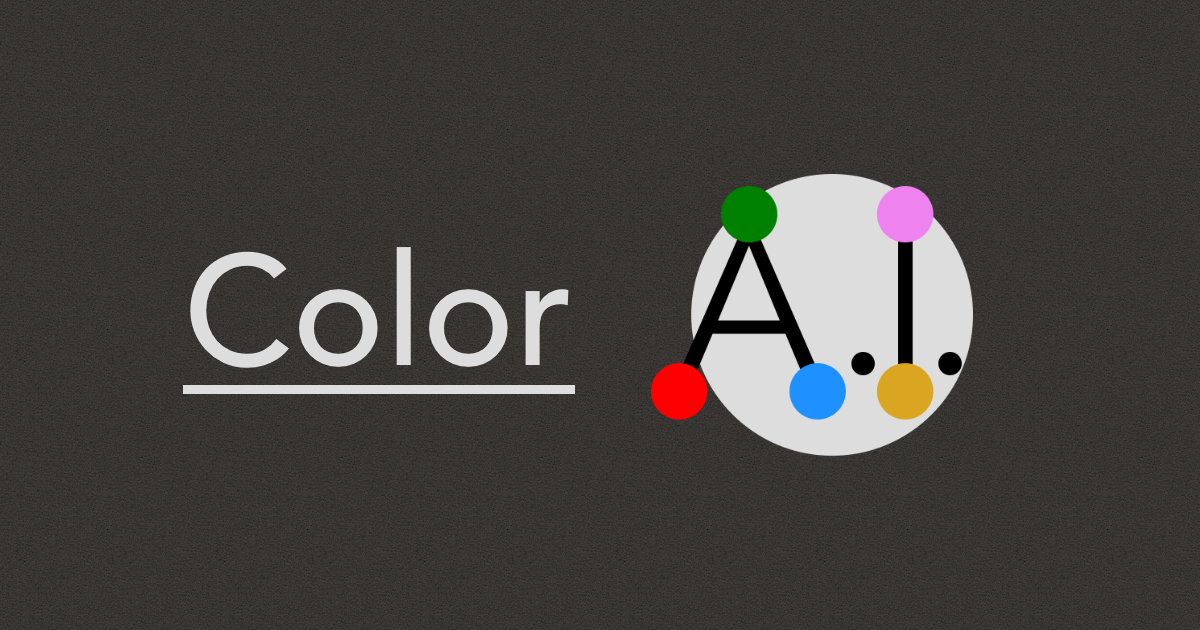
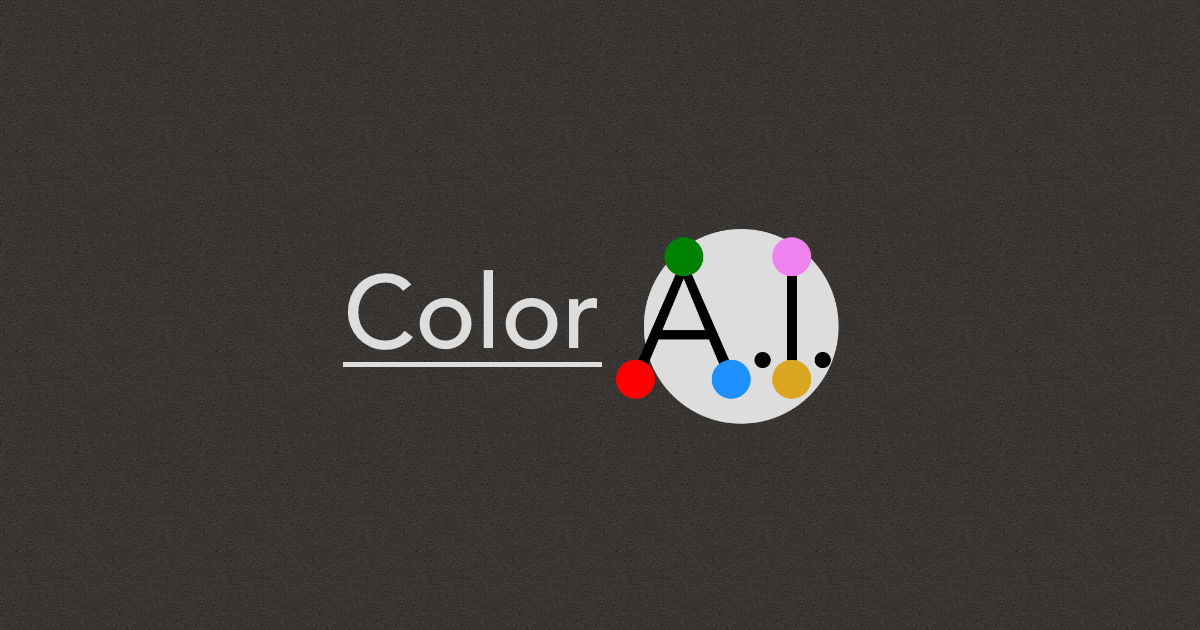
lasypush

Changed region(s): [[0.1542, 0.2714, 0.8325, 0.7238]]

diff --git a/index.html b/index.html
@@ -11,9 +11,9 @@
   <link rel="manifest" href="assets/favicon_io/site.webmanifest">
   <meta property="og:title" content="Color A.I.">
   <meta property="og:description" content="Discover, explore and generate color themes with Color A.I.">
-  <meta property="og:image" content="https://github.com/robbobfrh84/palm-ai-app/blob/main/client/assets/AI_icon_black_bg_512x512.png?raw=true">
+  <meta property="og:image" content="https://github.com/robbobfrh84/palm-ai-app/blob/main/client/assets/preview_1200x630.png?raw=true">
   <meta property="og:url" content="https://colorai.farm">
-  <meta name="twitter:image" content="https://github.com/robbobfrh84/palm-ai-app/blob/main/client/assets/AI_icon_black_bg_512x512.png?raw=true">
+  <meta name="twitter:image" content="https://github.com/robbobfrh84/palm-ai-app/blob/main/client/assets/preview_1200x630.png?raw=true">
   <!-- CSS -->
   <link rel='stylesheet' href='css/vars.css'>
   <link rel='stylesheet' href='css/base_levels.css'>
